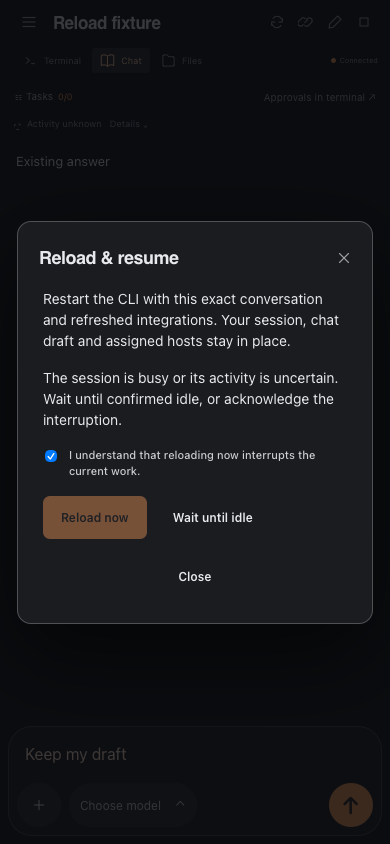
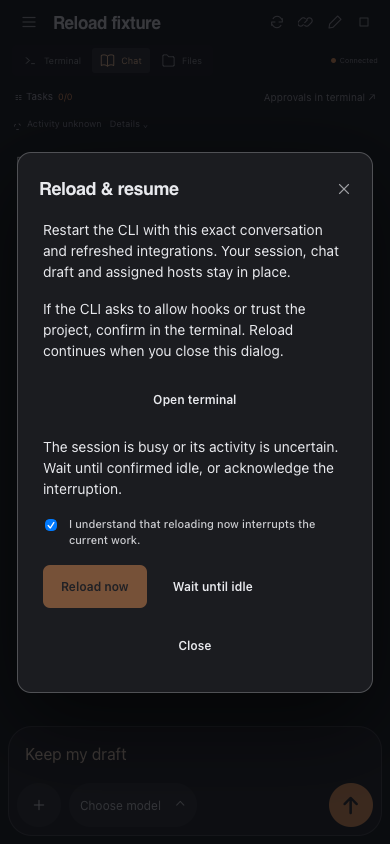
fix: allow hook approval during session reload

diff --git a/tests/browser/session-reload.spec.js b/tests/browser/session-reload.spec.js
@@ -25,6 +25,8 @@ async function fixture(page, language = "en") {
     inputs: [],
     gets: 0,
     sockets: 0,
+    terminalInputs: [],
+    holdPost: null,
     abortPost: false,
     rejectPost: false,
     assignedIds: [],
@@ -63,6 +65,11 @@ async function fixture(page, language = "en") {
         };
         state.session.reload = { ...state.reload };
         if (body.mode === "now") state.session.restartGeneration++;
+        if (state.holdPost) {
+          state.reload.state = "reloading";
+          state.session.reload = { ...state.reload };
+          await state.holdPost;
+        }
       } else if (request.method() === "DELETE") {
         state.deletes++;
         state.reload = { ...state.reload, state: "idle" };
@@ -107,6 +114,10 @@ async function fixture(page, language = "en") {
   await page.routeWebSocket("**/terminal", (socket) => {
     state.sockets++;
     socket.send(JSON.stringify({ type: "status", status: "running" }));
+    socket.onMessage((message) => {
+      const value = JSON.parse(message);
+      if (value.type === "input") state.terminalInputs.push(value.data);
+    });
   });
   await page.goto(baseURL + "/sessions/reload/chat");
   return state;
@@ -114,6 +125,33 @@ async function fixture(page, language = "en") {
 const dialog = (page) => page.getByRole("dialog");
 const open = (page) =>
   page.getByRole("button", { name: "Reload & resume", exact: true }).click();
+
+test("pending reload lets users open the terminal and approve hooks", async ({
+  page,
+}) => {
+  const state = await fixture(page);
+  state.reload.activity = { state: "idle" };
+  let finish;
+  state.holdPost = new Promise((resolve) => {
+    finish = resolve;
+  });
+  try {
+    await open(page);
+    await dialog(page).getByRole("button", { name: "Reload now", exact: true }).click();
+    await expect(dialog(page)).toContainText("Sending reload request");
+    await dialog(page)
+      .getByRole("button", { name: "Open terminal", exact: true })
+      .click();
+    await expect(dialog(page)).not.toBeVisible();
+    await expect.poll(() => state.sockets).toBeGreaterThan(0);
+    await page.getByRole("button", { name: "Send Enter", exact: true }).click();
+    await expect.poll(() => state.terminalInputs).toContain("\r");
+    expect(state.posts).toHaveLength(1);
+    expect(state.inputs).toEqual([]);
+  } finally {
+    finish();
+  }
+});
 
 test("busy reload requires acknowledgement and preserves chat draft and history", async ({
   page,

diff --git a/tests/integration/session-replacement.test.js b/tests/integration/session-replacement.test.js
@@ -35,8 +35,14 @@ test("replacement preserves identity and scoped metadata without normal stop cle
     state: "reloading",
     nativeId: "exact-native",
   });
+  const oldTerminal = await manager.attach(session.id);
+  await assert.rejects(oldTerminal.write("must-not-replay"), /reloading/);
   const result = await manager.replace(session.id, async () => ({
     ...launch,
+    args: [
+      "-c",
+      'printf "ALLOW_HOOKS?\\n"; read -r answer; printf "HOOKS_%s\\n" "$answer"; sleep 120',
+    ],
     sshTools: { enabled: true, generation: "new" },
   }));
   assert.equal(result.id, session.id);
@@ -51,8 +57,23 @@ test("replacement preserves identity and scoped metadata without normal stop cle
     manager.control(session.id, () => assert.fail("No model input")),
     /reloading/,
   );
-  const terminal = await manager.attach(session.id);
-  await assert.rejects(terminal.write("must-not-replay"), /reloading/);
+  let output = "";
+  const terminal = await manager.attach(session.id, {
+    onData: (data) => {
+      output += data;
+    },
+  });
+  const waitForOutput = async (expected) => {
+    const deadline = Date.now() + 5000;
+    while (!output.includes(expected) && Date.now() < deadline)
+      await new Promise((resolve) => setTimeout(resolve, 25));
+    assert.ok(output.includes(expected), `Missing terminal output: ${expected}`);
+  };
+  await waitForOutput("ALLOW_HOOKS?");
+  await oldTerminal.write("must-not-reach-replacement");
+  await terminal.write("ALLOWED\r");
+  await waitForOutput("HOOKS_ALLOWED");
+  assert.equal((await manager.get(session.id)).reload.state, "reloading");
   terminal.dispose();
   await assert.rejects(
     manager.replace(session.id, async () => {

diff --git a/web/features/sessions/SessionReloadDialog.jsx b/web/features/sessions/SessionReloadDialog.jsx
@@ -4,7 +4,7 @@ import { sessionReloadCopy as copy } from "../../lib/i18n/messages/sessions.js";
 import useSessionReload from "./useSessionReload.js";
 import "./session-reload.css";
 
-export default function SessionReloadDialog({ session, close, pending }) {
+export default function SessionReloadDialog({ session, close, pending, openTerminal }) {
   const reload = useSessionReload(session, pending);
   const [interrupt, setInterrupt] = useState(false);
   const { data, busy, error } = reload;
@@ -15,6 +15,10 @@ export default function SessionReloadDialog({ session, close, pending }) {
     <Modal title={copy.title} close={close}>
       <div className="session-reload-dialog">
         <p>{copy.hint}</p>
+        <p>{copy.terminalHint}</p>
+        <button className="button" onClick={openTerminal}>
+          {copy.openTerminal}
+        </button>
         {!data && !error && <p role="status">{copy.loading}</p>}
         {error && <p role="alert">{error}</p>}
         {busy && <p role="status">{copy.submitting}</p>}

diff --git a/server/features/sessions/session-manager.js b/server/features/sessions/session-manager.js
@@ -8,7 +8,7 @@ import {
 import { shellQuote as quote } from "../../lib/launch-serialization.js";
 import { validId, validName, dimensions, textInput } from "./session-validation.js";
 import { safeEnvironment, execute, privateWrite } from "./session-process-runtime.js";
-import { replaceSession } from "./session-replacement.js";
+import { replaceSession, blocksTerminalInput } from "./session-replacement.js";
 import { createHash, randomUUID } from "node:crypto";
 import {
   access,
@@ -571,7 +571,7 @@ export class SessionManager {
             return Promise.reject(failure("Session is reloading", 409));
           return this.serial(async () => {
             if (disposed) return;
-            if ((await this.metadata(id)).reload?.state === "reloading")
+            if (blocksTerminalInput(await this.metadata(id)))
               throw failure("Session is reloading", 409);
             terminal.write(text);
           });

diff --git a/server/features/sessions/session-replacement.js b/server/features/sessions/session-replacement.js
@@ -7,6 +7,16 @@ import { problem } from "../../lib/storage.js";
 import { validateReloadLaunch } from "../../application/session-reload-launch.js";
 
 const launcher = fileURLToPath(new URL("../../terminal-launcher.js", import.meta.url));
+
+export function blocksTerminalInput(session) {
+  // The replacement CLI may need hook/trust approval before native verification.
+  // The manager separately blocks writes during replacement and disposes old PTYs.
+  return (
+    session.reload?.state === "reloading" &&
+    !(session.reload.replacementStarted && session.status === "running")
+  );
+}
+
 /** Called inside the manager lock. No stop reconciliation or identity recreation. */
 export async function replaceSession(manager, id, prepare, beforeStop) {
   const session = await manager.metadata(id);

diff --git a/web/lib/i18n/de/sessions.js b/web/lib/i18n/de/sessions.js
@@ -35,6 +35,9 @@ export const sessionWorkspaceCopy = {
 };
 
 export const sessionReloadCopy = {
+  openTerminal: "Terminal öffnen",
+  terminalHint:
+    "Fragt die CLI nach Hooks oder Projektvertrauen, bestätige dies im Terminal. Das Neuladen läuft beim Schließen dieses Dialogs weiter.",
   submitting: "Anfrage zum Neuladen wird gesendet …",
   prepareFailed:
     "Die Anfrage konnte nicht vorbereitet werden. Verwende einen Browser mit Unterstützung für sichere Verbindungen.",

diff --git a/web/lib/i18n/en/sessions.js b/web/lib/i18n/en/sessions.js
@@ -35,6 +35,9 @@ export const sessionWorkspaceCopy = {
 };
 
 export const sessionReloadCopy = {
+  openTerminal: "Open terminal",
+  terminalHint:
+    "If the CLI asks to allow hooks or trust the project, confirm in the terminal. Reload continues when you close this dialog.",
   submitting: "Sending reload request …",
   prepareFailed:
     "The reload request could not be prepared. Try a browser with secure connection support.",

diff --git a/web/features/sessions/SessionWorkspace.jsx b/web/features/sessions/SessionWorkspace.jsx
@@ -287,6 +287,10 @@ export default function SessionWorkspace({
             session={session}
             close={() => setReloadSession(null)}
             pending={pendingReload}
+            openTerminal={() => {
+              setReloadSession(null);
+              showTerminal();
+            }}
           />
         </Suspense>
       )}

diff --git a/eslint.config.js b/eslint.config.js
@@ -16,6 +16,7 @@ export default [
       "test-results/**",
       "playwright-report/**",
       ".superpowers/**",
+      ".worktrees/**",
     ],
   },
   {

diff --git a/docs/session-reload.md b/docs/session-reload.md
@@ -10,6 +10,8 @@ If preflight validation fails, the existing CLI keeps running. If startup fails 
 
 The native CLI must still have access to its saved conversation files. AgentPier does not fall back to whichever conversation was most recent when the exact conversation cannot be resolved.
 
+If the restarted CLI asks you to allow hooks or trust the project, choose **Open terminal** in the reload dialog to confirm it yourself. This closes the dialog without cancelling the reload. Direct terminal input is available as soon as the replacement CLI is running, including while AgentPier is verifying the resumed conversation. Chat delivery and model controls remain blocked during that verification. If verification times out while you are reading a prompt, the terminal remains available to finish the approval.
+
 ## Model verification
 
 Reload preflight checks the current model before stopping the CLI. If the CLI reports only a display name that cannot be resolved reliably, AgentPier rejects the reload instead of forcing an older model from the conversation history. This currently affects some OpenCode display names and unfamiliar native model labels. Changing the model immediately before reloading can also require a new response to confirm its exact identity in the native history. The error leaves the running CLI untouched.

diff --git a/AGENTS.md b/AGENTS.md
@@ -35,6 +35,8 @@ Use `node:test` with strict assertions, fast-check for properties, and Playwrigh
 
 `main` is protected. Make changes on a feature or fix branch and submit a pull request; never push directly to `main` or bypass branch protection. Merge only after required CI checks pass and review conversations are resolved.
 
+Place Git worktrees under the repository's ignored `.worktrees/` directory, never beside the repository. After successful completion and merge, remove clean, inactive worktrees with `git worktree remove`. Preserve worktrees with uncommitted changes, unmerged work, or active sessions.
+
 Follow the history's concise imperative prefixes: `fix:`, `feat:`, and `chore:`. Keep commits focused. Describe the problem, resulting behavior, and validation in PRs; link relevant issues and include screenshots for visible UI changes. CI checks Linux/macOS and Chromium/WebKit.
 
 ## Security & Configuration
